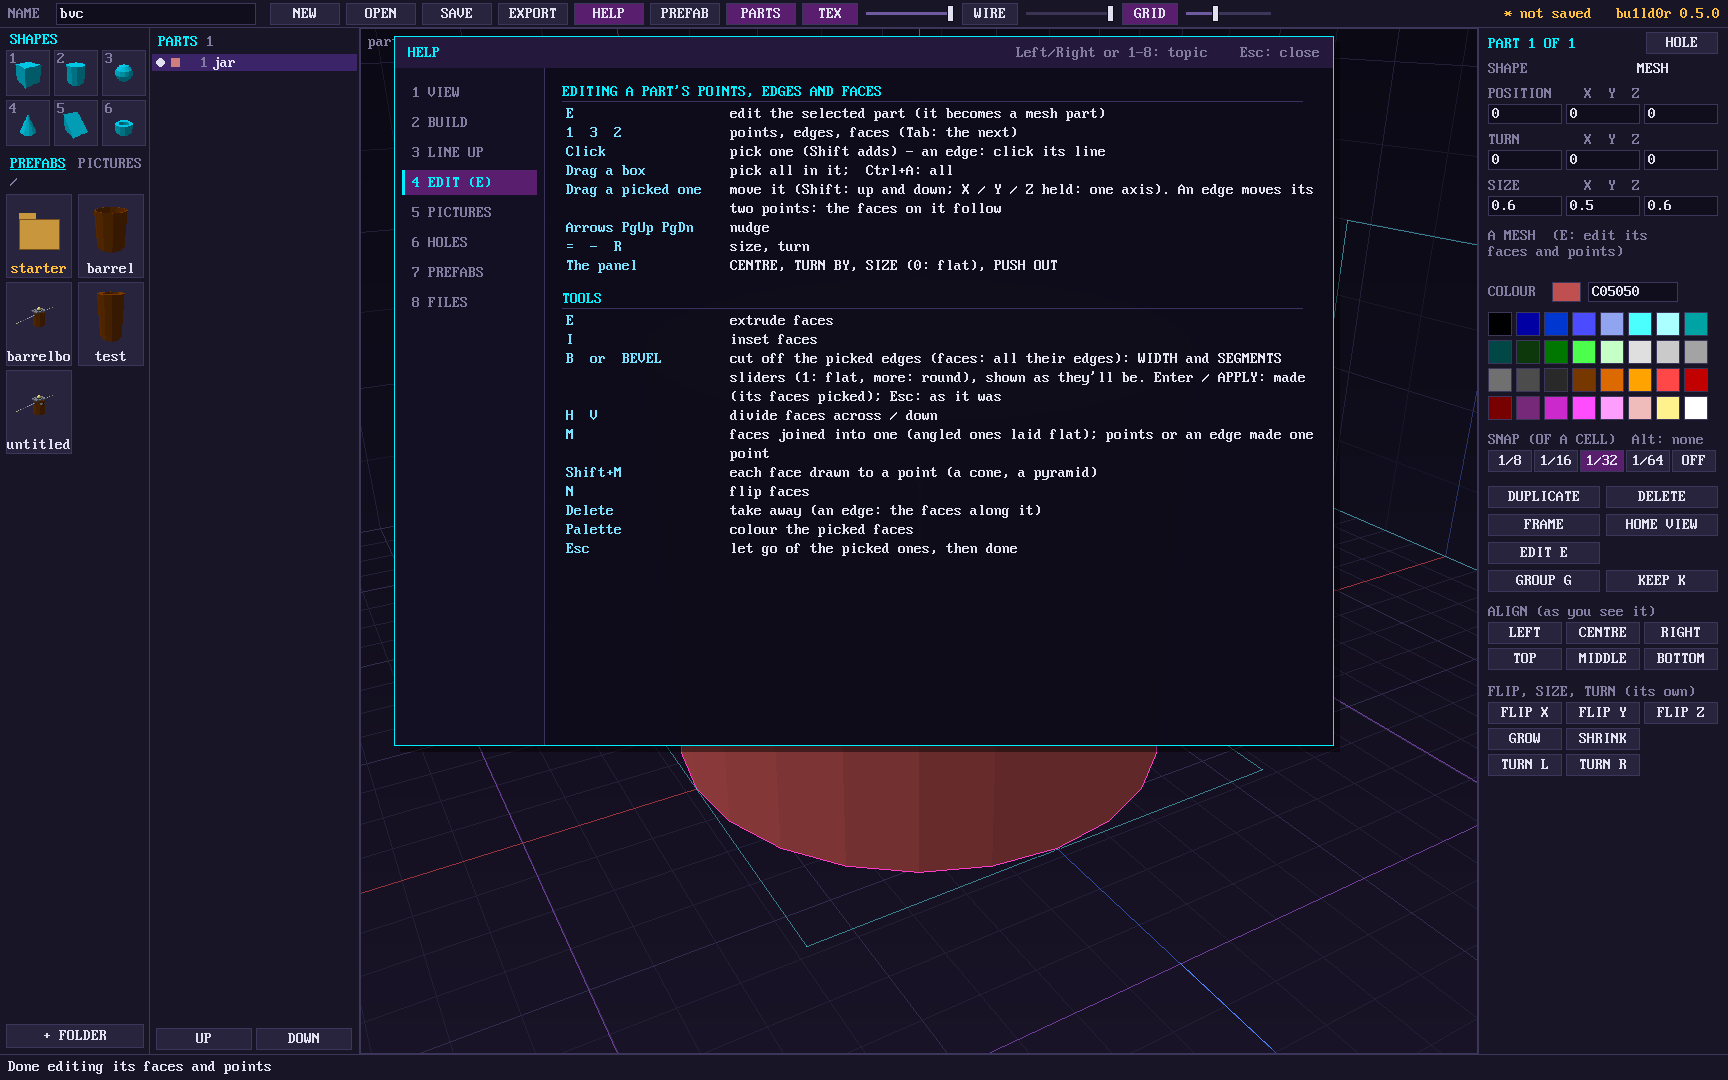
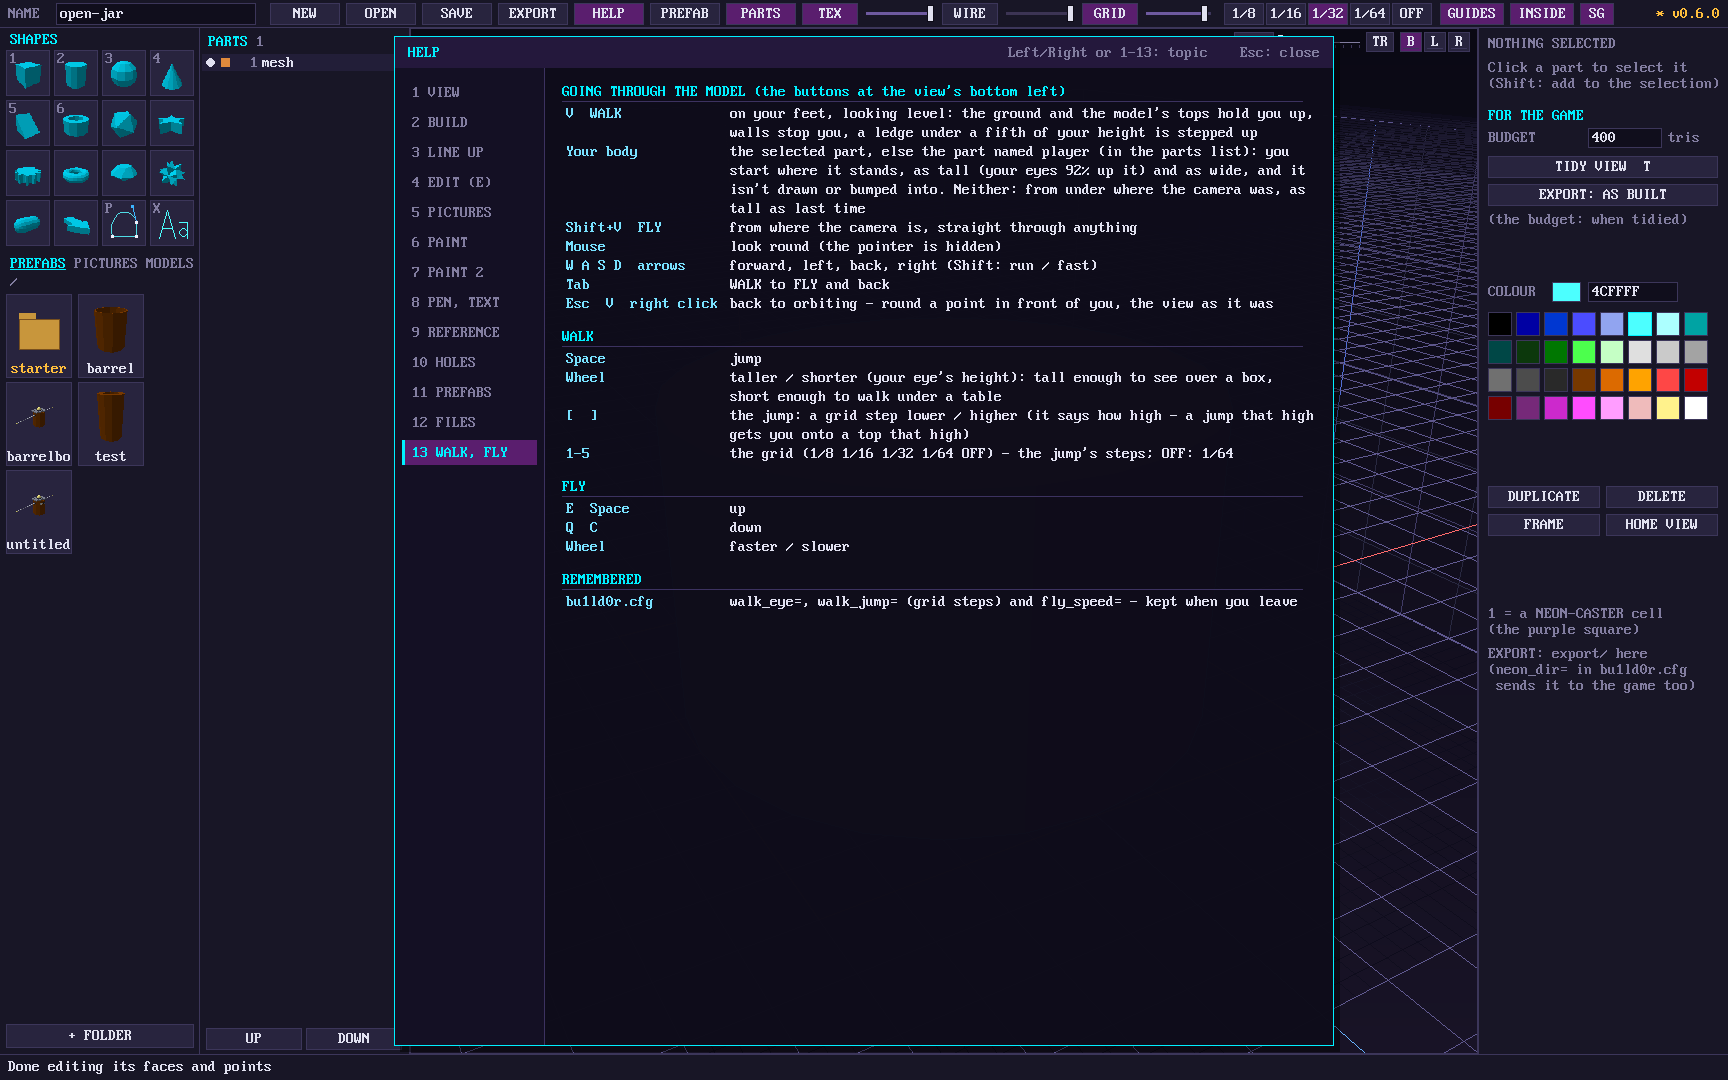
bu1ld0r v0.6.0
- Speed: triangles fill only each row's covered span (SpanCut), whole
  images copied a row at a time (ImgBlit) instead of _PUTIMAGE, the
  backdrop made once a size, outlines scanned only round the outlined
  parts (OvBox) from triangle ids in one pass, $CHECKING:OFF round the
  fills. Walking close up 77 -> ~21 ms a frame, orbiting 23 -> ~17.
- Builds optimized (-f:OptimizeCppProgram=true): CI, README, release
  skill. --prof / --spin / --walk / --yaw for timing.
- The top bar's name and version fall back to "v0.6.0" / "* v0.6.0"
  when there's no room; WALK's eye height rounded.
- README: new screenshots (overview, guides, walk, refs, pen, planes,
  inside, help), walking and flying workflow, smart guides, in detail.

diff --git a/README.md b/README.md
@@ -31,14 +31,16 @@ shape made thick, ready to extrude, inset and bevel. Draw your own flat
 shapes with the pen, or type text in any TrueType font: each letter a part
 of its own. MERGE joins overlapping parts into one solid. Reference
 pictures on the ground and the walls behind let you model over a drawing
-or a photo.
+or a photo. Smart guides line a dragged part up with the others as you
+move it, and WALK / FLY take you through the model on foot or flying, to
+see it from inside, at its own scale.
 
 Coming next (see [PLAN.md](PLAN.md)): painting straight onto the model, in 3D.
 
 ## Build
 
 ```
-~/git/qb64pe/qb64pe -w -x bu1ld0r.bas -o bu1ld0r.run
+~/git/qb64pe/qb64pe -w -x bu1ld0r.bas -o bu1ld0r.run -f:OptimizeCppProgram=true
 ```
 
 ## Workflows
@@ -103,6 +105,13 @@ E turns any of them into a mesh part, to edit like any other.
   In E it puts the picked points - or the picked edges' and faces'
   corners, or every point when none are picked - on the nearest grid
   lines; points that land together become one.
+- SMART GUIDES ([SG] in the top bar, on by default): while you drag, the
+  selection's sides and middle snap to other parts' - lined up, or sitting
+  on or beside them - and to the middle of the world, before the grid. A
+  dashed outline on each side that lined up, and a line between them,
+  show what met what. Alt: free.
+
+![SMART GUIDES: a toggle dragged across the desk, lined up with the other one - their sides dashed in magenta](docs/screenshots/guides.png)
 
 ### Prefabs
 
@@ -142,6 +151,9 @@ E turns any of them into a mesh part, to edit like any other.
    round thing's outside walls: all of them); Ctrl+Shift+click adds it.
    Click picks, Shift adds, drag a box round several. In edges,
    Ctrl+click picks an edge's whole loop (Shift+Ctrl adds another).
+
+   ![PLANES in E: one Ctrl+click on a cylinder's side picks all 24 planes round it](docs/screenshots/planes.png)
+
 3. Drag what's picked to move it, or use the panel: CENTRE, TURN BY,
    SIZE, PUSH OUT.
 4. The tools: EXTRUDE (E), INSET (I), BEVEL (B), DIVIDE across / down
@@ -169,6 +181,8 @@ E turns any of them into a mesh part, to edit like any other.
    spot made one, cracks and holes closed (a ring-shaped gap gets a ring
    of faces), faces turned out. A point with no face can't exist: it's
    dropped whenever the part is saved back.
+
+   ![INSIDE on a cylinder with a side face taken away: its inner walls, seen from behind, in red; then MEND closes the gap](docs/screenshots/inside.png)
    The palette colours the picked faces. Esc lets go, then leaves.
 
 The recess on the front here is an INSET face pushed in with PUSH OUT.
@@ -304,6 +318,8 @@ Ctrl+S saves it as a model.
 
 ### Your own shapes: the pen and text
 
+![TEXT: "bu1ld0r" standing, each letter a part; in front, the pen half way round an outline, one corner dragged into a curve](docs/screenshots/pen.png)
+
 - **The pen (P):** click corners on the ground (click and drag for a
   curve); click the first point again and the outline becomes a flat part,
   ready to thicken, extrude and bevel.
@@ -319,6 +335,8 @@ Ctrl+S saves it as a model.
 
 ### Reference pictures
 
+![Reference pictures: a blueprint of the console's front on the back wall and its top on the ground](docs/screenshots/refs.png)
+
 The view's top right has **[REF] (slider) [TR] [B] [L] [R]**: a picture
 on the ground (B), on the back wall (L) or on the side wall (R), drawn
 see-through behind the model so you can build over it from any angle.
@@ -332,12 +350,27 @@ see-through behind the model so you can build over it from any angle.
   right-click REF takes it off.
 - They're saved with the model.
 
+### Walking and flying through it
+
+![WALK: up to the console at eye level, the read-out at the bottom](docs/screenshots/walk.png)
+
+- V (or WALK at the view's bottom left) puts you on your feet, looking
+  level: the mouse looks round, WASD or the arrows walk, Shift runs. The
+  ground and the model's tops hold you up, walls stop you, low ledges are
+  stepped up, and Space jumps - [ ] set how many grid steps high (16 to
+  start), so you can find out what a player could climb.
+- The wheel makes you taller or shorter. Select a part first, or name one
+  `player`, and it becomes your body: feet on its bottom, eyes near its top.
+- Shift+V (FLY) goes straight through anything: E / Space up, Q / C down,
+  the wheel for speed. Tab switches between them.
+- Esc, V or a right click goes back to orbiting, exactly as you left it.
+
 ### Help in the program
 
-![HELP, on its EDIT page](docs/screenshots/help.png)
+![HELP, on its WALK, FLY page](docs/screenshots/help.png)
 
 H (or F1) shows every key by topic: click a topic, or Left / Right, or
-1-9. The same list is below.
+its number. A long page scrolls (the wheel, PgUp / PgDn). The same list is below.
 
 ## Keys
 
@@ -882,6 +915,9 @@ Sizes are in NEON-CASTER cells: 1 is a wall's width. The model's foot is the mid
   - Right-click one in the bin for EDIT IT or RENAME / MOVE: type a new name, with a folder in it to move it (`panels/big-toggle`). Every model and prefab that uses it is changed to match.
   - U (UNLINK): a prefab put down becomes the model's own parts, as a group (a scale that can't be put on one part makes it a mesh part).
   - A prefab put down has a TINT: the panel's colour, with AMOUNT how far its colours go towards it.
+- **Smart guides** ([SG] in the top bar, on at first; `smart_guides=` in bu1ld0r.cfg): when a drag starts, the selection's box and every other part's box are taken (from the model as drawn, holes and prefab uses included), plus the world's middle. Each way the drag can go, the selection's low side, middle and high side are held against the others' (low or high with low or high: lined up, sitting on, or beside; middle with middle). Within 7 pixels on screen it snaps there, before the grid; the grid snaps whatever didn't line up. Every side that lines up is drawn dashed on its plane, the other part's and the selection's, with a line between. Alt: free.
+- **WALK and FLY** (V, Shift+V, or the buttons at the view's bottom left): the mouse looks round (the pointer hidden), WASD or the arrows move, Shift faster. WALK has gravity: you stand on the ground and the model's tops, walls stop you (rays at your feet, waist and eyes), a ledge under a fifth of your eye height is stepped up, and Space jumps the number of grid steps [ ] sets (16 at first; 1-5 pick the grid, so 16 x 1/32 is half a cell). The wheel sets your eye height. With parts selected - or a part named `player` in the parts list - that's your body: you start where it stands, your eyes 92% up it, as wide as it, and it isn't drawn or bumped into. FLY goes through anything: E or Space up, Q or C down, the wheel how fast. Tab switches; Esc, V or a right click goes back to orbiting with the view exactly as it was. Kept in bu1ld0r.cfg: `walk_eye=`, `walk_jump=`, `fly_speed=`.
+- **Speed:** everything is drawn by the program itself, not the graphics card. Close up, a frame takes about 20 ms (50 a second) on a laptop: a triangle fills only the pixels across each row it covers, whole pictures are copied a row at a time, and outlines are looked for only round the parts outlined. Release builds are compiled optimized (`-f:OptimizeCppProgram=true`), which is about 1.75 times faster again.
 - **The window:** drag it to any size; once you let go, everything is laid out again to fill it (the 3D view takes the room). The UI is drawn at a whole-number scale, so it stays crisp: 2x on a 4K display, chosen for you at first. Ctrl+ and Ctrl- change it. F11 (or Alt+Enter) is full screen. The size and scale are kept in `bu1ld0r.cfg` (`window=`, `ui_scale=`), and whether the parts list is shown (`parts_list=`).
 - **Flip, grow, turn:** with parts selected the panel has FLIP X / Y / Z (each part mirrored in its own axes, about its own middle; a shape that isn't the same mirrored - a cone flipped in Y - becomes a mesh part to do it), GROW / SHRINK (a quarter bigger or smaller, standing where it stands; several grow as one piece) and TURN L / R (90 degrees round the up axis, Shift: 15).
 - **Typing in a box** (the name, the sizes, the pictures path...): click puts the cursor there (double click picks all of it, drag or Shift+click picks some); Left / Right / Home / End move it (Shift picks, Ctrl goes a word at a time); Ctrl+A / C / X / V; Backspace and Delete (Ctrl: a word).
@@ -957,7 +993,7 @@ loses detail - look at it with T before switching it on for the export.
 ## Command line
 
 ```
-bu1ld0r.run [FILE.bld | FILE.obj | FILE.svg] [--open NAME | NAME.svg | neon:PROP] [--drop FILE.png] [--save] [--export] [--neon DIR] [--tidy] [--shot FILE.png] [--quit] [--bench N]
+bu1ld0r.run [FILE.bld | FILE.obj | FILE.svg] [--open NAME | NAME.svg | neon:PROP] [--drop FILE.png] [--save] [--export] [--neon DIR] [--tidy] [--shot FILE.png] [--quit] [--bench N] [--prof] [--spin] [--walk 1|2] [--yaw N]
 ```
 
 `--drop FILE.png` acts as if the file were dropped on the window (where
@@ -969,3 +1005,8 @@ the pointer is a moment later: tests). `--open neon:crate` opens the game's crat
 `--export`, `--shot` and `--quit` act a few frames after start-up, for tests.
 `--bench N` makes the opened model's triangles N times (holes cut each
 time) and writes how long one took to `bench.txt`.
+
+`--prof` writes how long each stage of drawing takes (ms a frame) to
+`prof.txt` every 60 frames; `--spin` turns the camera a degree a frame,
+`--walk 1` / `--walk 2` start in WALK / FLY and `--yaw N` looks that way -
+for timing.

diff --git a/CLAUDE.md b/CLAUDE.md
@@ -439,9 +439,26 @@ at 64 px drawn 4x and shrunk (textured faces drawn textured), lit `eye*.55 + up*
 
 ## Build
 
-`~/git/qb64pe/qb64pe -w -x bu1ld0r.bas -o bu1ld0r.run` - check it by its
-`Output:` line (grep `Output:|in use|LINE|Caused`): QB64PE reports most
-mistakes as `Name already in use` plus a `LINE nnnn:`, not "error".
+`~/git/qb64pe/qb64pe -w -x bu1ld0r.bas -o bu1ld0r.run -f:OptimizeCppProgram=true`
+- check it by its `Output:` line (grep `Output:|in use|LINE|Caused`): QB64PE
+reports most mistakes as `Name already in use` plus a `LINE nnnn:`, not
+"error". The flag (-O2, ~70 s a build; CI and the release skill use it) makes
+frames ~1.75x faster; leave it off for quick compile checks.
+
+## Speed
+
+Everything is drawn by the CPU (the GPU only shows the finished picture).
+`--prof` writes prof.txt every 60 frames: ms per stage (`PrAdd k` marks, names
+in `PrFrame`); `--spin` turns the camera a degree a frame, `--walk 1|2` starts
+in WALK / FLY, `--yaw N` looks that way. Time on headless weston (the real GPU),
+not Xvfb. Learned: `_PUTIMAGE` of a whole image is per pixel (10 ms) -
+`ImgBlit` copies rows with _MEMCOPY; the backdrop is made once a size (`bdImg&`);
+`FillTri`/`FillTriT` work out each row's covered span first (`SpanCut`) instead
+of testing every pixel of the box; `$CHECKING:OFF` round the fills and
+`ViewOutlines`; the outlines scan only the outlined parts' screen box (`OvBox`)
+and look a part up only where the triangle changes. A GL path (neon-caster's
+lessons: SUB _GL, arrays not per-call, no glGet / glFinish / readbacks) is
+the next big step if it's ever needed.
 
 ## Testing
 
@@ -458,6 +475,12 @@ Never `--neon` the real game folder in a test (use a scratch copy of
 `neon-caster/models` and `hd/models`). No GUI launches from subagents. Run
 long tests in the background, one at a time (`nice`, `LP_NUM_THREADS=2`).
 Clean up after: `ps -eo pid,etime,args | grep -E 'bu1ld0r|Xvfb'` - and stop only the test ones.
+README screenshots (`docs/screenshots/`, 1728x1080): Xvfb `:99` at 1920x1200,
+the test copy run from its own folder (`models/X.bld` so the status line says
+a short path), `xdotool windowmove $W 0 0`, the pointer parked off the window
+(`xdotool mousemove 1850 1150`), `ffmpeg -f x11grab -video_size 1920x1200 -i
+:99.0 -frames:v 1 -vf crop=1728:1080:0:0`. `xdotool key r` after `type` once
+gave "e" (its remapped keycodes): type letters with `typ`.
 
 ## Git
 

diff --git a/.claude/skills/create-release/SKILL.md b/.claude/skills/create-release/SKILL.md
@@ -91,7 +91,7 @@ Also check `PLAN.md`: mark finished stages done, if any.
 ## Step 5 — Compile verification
 
 ```bash
-~/git/qb64pe/qb64pe -w -x bu1ld0r.bas -o bu1ld0r.test.run 2>&1 | grep -E 'Output:|in use|LINE|Caused|rror'
+~/git/qb64pe/qb64pe -w -x bu1ld0r.bas -o bu1ld0r.test.run -f:OptimizeCppProgram=true 2>&1 | grep -E 'Output:|in use|LINE|Caused|rror'
 ```
 
 Confirm `Output: .../bu1ld0r.test.run` appears and nothing else (QB64PE reports most mistakes as `Name already in use` plus a `LINE nnnn:`). CI builds with the QB64-PE commit pinned as `QB64PE_REF` in `.github/workflows/build-release.yml`; if the local `~/git/qb64pe` has moved on (`git -C ~/git/qb64pe rev-parse HEAD`), say so and ask whether to update the pin. Report any errors and fix before continuing. Then `mv bu1ld0r.test.run bu1ld0r.run`.
